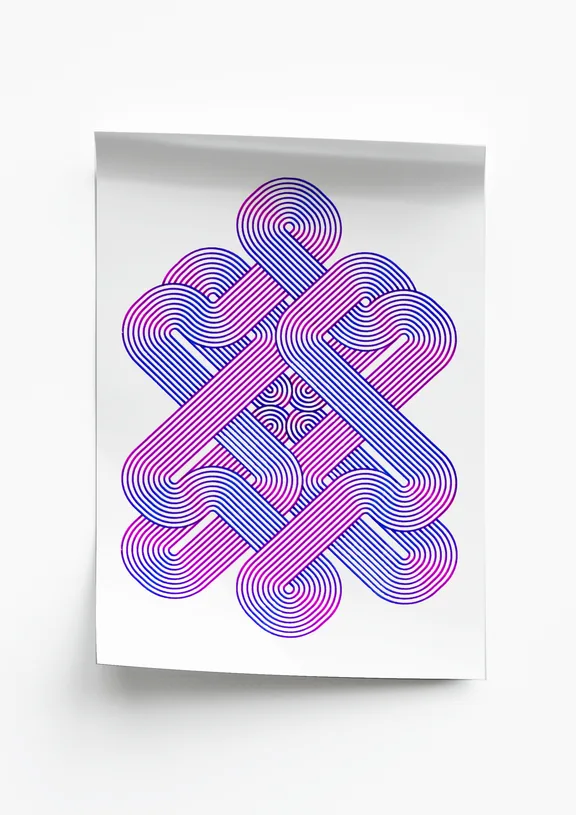
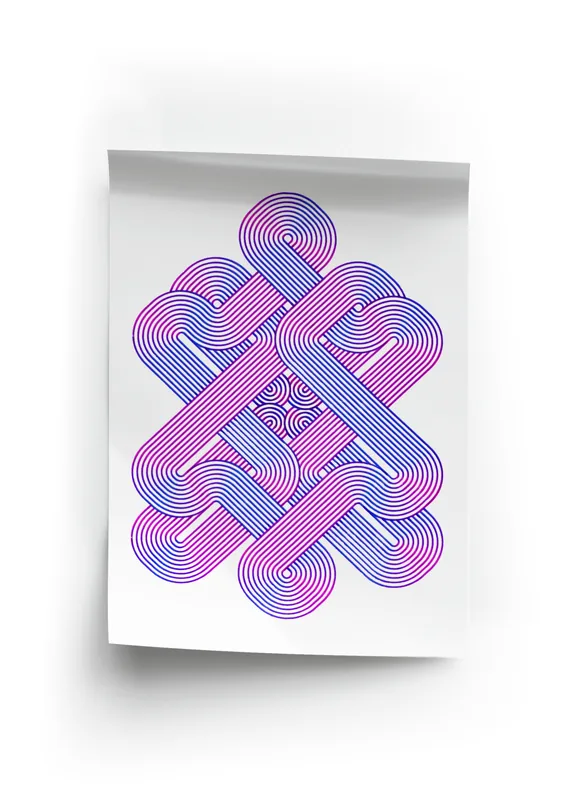
Update Yoga images with final retouched packshot (v1.11.1)

Changed region(s): [[0.1562, 0.1543, 0.8438, 0.8642]]

diff --git a/version.js b/version.js
@@ -1,6 +1,13 @@
-const VERSION = "1.11.0";
+const VERSION = "1.11.1";
 
 const CHANGELOG = [
+  {
+    version: "1.11.1",
+    date: "2026-07-16",
+    changes: [
+      "Update Yoga images with final retouched packshot"
+    ]
+  },
   {
     version: "1.11.0",
     date: "2026-07-16",
